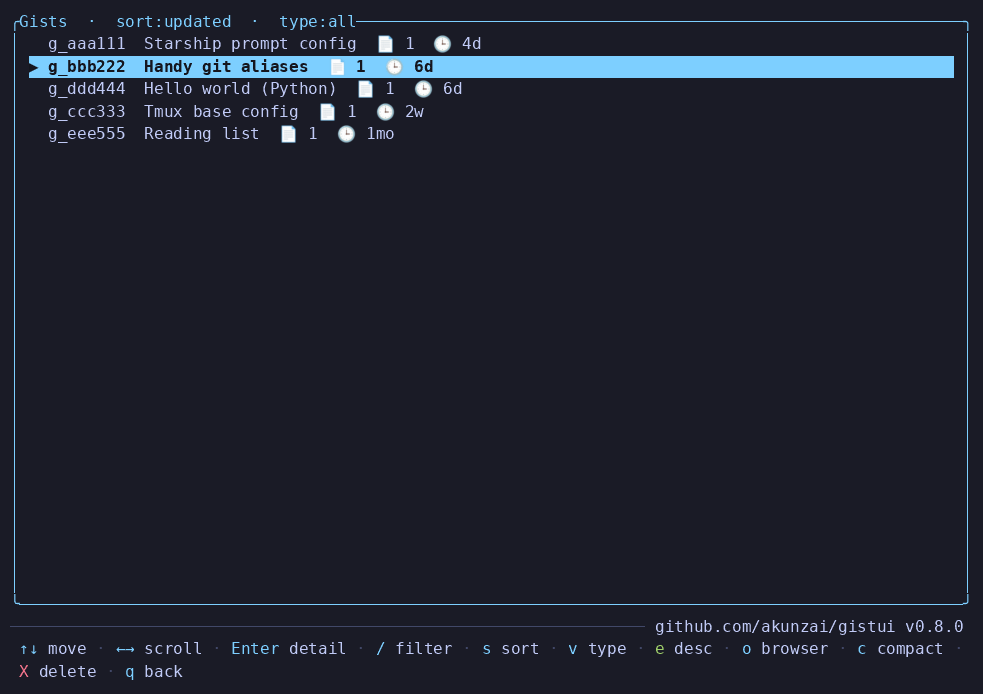
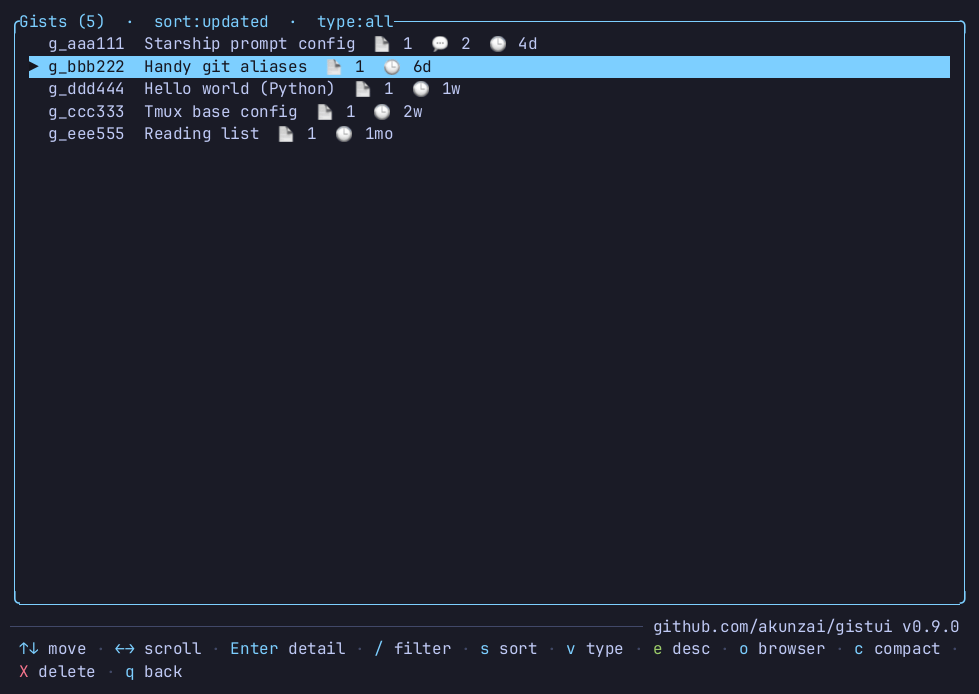
docs: cut the 0.9.0 changelog and refresh demo assets
- Cut [Unreleased] into [0.9.0] and make every version heading a
  reference-style release link, dropping the per-section "Full notes" lines.
- Re-record docs/demo.gif and docs/gist-manager.png against the 0.9.0 UI.
  Give a demo gist a comment count (seed.py + fake-gh) so the gist-manager
  screenshot showcases the new 💬 marker.

diff --git a/scripts/demo/seed.py b/scripts/demo/seed.py
@@ -24,6 +24,7 @@ GISTS = {
         "public": True,
         "updated_at": "2026-06-09T18:20:00Z",
         "created_at": "2026-03-01T00:00:00Z",
+        "comments": 2,
         "files": {
             "starship.toml": (
                 "# Starship prompt\n"

diff --git a/CHANGELOG.md b/CHANGELOG.md
@@ -1,6 +1,6 @@
 # Changelog
 
-All notable changes are summarised here. Each release links to its full,
+All notable changes are summarised here. Each version links to its full,
 auto-generated notes on the [GitHub Releases][releases] page, which remains the
 authoritative source.
 
@@ -10,13 +10,15 @@ and this project adheres to [Semantic Versioning](https://semver.org/spec/v2.0.0
 
 ## [Unreleased]
 
-- Gist manager rows show a `💬 N` comment count for gists that have comments (drawn from the
-  existing gist-list fetch — no extra API calls).
-- Item counts in the Local, Gists and Pins titles (e.g. `Gists (3/12)` when a filter is
-  active, `(N)` otherwise), matching the existing `Files (N)` / `Comments (N)` style.
+## [0.9.0] — 2026-06-14
+
 - Gist detail view is now tabbed — a `Files │ Comments` strip under the basic info shows one
   pane at a time (opens on the Files tab; `Tab` switches), instead of stacking both panes.
 - Scrollbar on the gist-detail comments pane (the Diff and Preview panes already had one).
+- Item counts in the Local, Gists and Pins titles (e.g. `Gists (3/12)` when a filter is
+  active, `(N)` otherwise), matching the existing `Files (N)` / `Comments (N)` style.
+- Gist manager rows show a `💬 N` comment count for gists that have comments (drawn from the
+  existing gist-list fetch — no extra API calls).
 - Animated spinner on the scanning, loading and working states (replaces the static `⏳`),
   so long-running `gh` operations no longer look frozen.
 - Install from crates.io: `cargo install gistui`, or `cargo binstall gistui` for the
@@ -32,8 +34,6 @@ and this project adheres to [Semantic Versioning](https://semver.org/spec/v2.0.0
 - Homebrew install: `brew install akunzai/tap/gistui`.
 - Crate metadata, README badges, and this changelog.
 
-[Full notes](https://github.com/akunzai/gistui/releases/tag/v0.8.0).
-
 ## [0.7.0] — 2026-06-12
 
 - Cursor-based file selection in the gist detail view.
@@ -43,14 +43,10 @@ and this project adheres to [Semantic Versioning](https://semver.org/spec/v2.0.0
 - PageUp/PageDown scrolling.
 - GitHub Pages landing page.
 
-[Full notes](https://github.com/akunzai/gistui/releases/tag/v0.7.0).
-
 ## [0.6.0] — 2026-06-12
 
 - Preview file content with number keys in the detail view.
 - HTTPS clone during compaction to avoid SSH passphrase prompts.
-
-[Full notes](https://github.com/akunzai/gistui/releases/tag/v0.6.0).
 
 ## [0.5.0] — 2026-06-11
 
@@ -58,16 +54,12 @@ and this project adheres to [Semantic Versioning](https://semver.org/spec/v2.0.0
 - Anchor-driven list ranking with pinned/same-name markers.
 - Windows key-repeat fix.
 
-[Full notes](https://github.com/akunzai/gistui/releases/tag/v0.5.0).
-
 ## [0.4.0] — 2026-06-11
 
 - UI refresh.
 - Gist revision compaction.
 - Quit guard.
 - Pane-oriented Enter diff preview.
-
-[Full notes](https://github.com/akunzai/gistui/releases/tag/v0.4.0).
 
 ## [0.3.0] — 2026-06-10
 
@@ -79,8 +71,6 @@ and this project adheres to [Semantic Versioning](https://semver.org/spec/v2.0.0
 - Collapsible diff context.
 - Working-directory path argument.
 
-[Full notes](https://github.com/akunzai/gistui/releases/tag/v0.3.0).
-
 ## [0.2.0] — 2026-06-09
 
 - Paginate beyond 100 gists.
@@ -91,8 +81,6 @@ and this project adheres to [Semantic Versioning](https://semver.org/spec/v2.0.0
 - A pins view.
 - Word-level inline diff highlighting.
 
-[Full notes](https://github.com/akunzai/gistui/releases/tag/v0.2.0).
-
 ## [0.1.0] — 2026-06-09
 
 - Initial MVP: browse and rank gists against the working directory.
@@ -102,6 +90,14 @@ and this project adheres to [Semantic Versioning](https://semver.org/spec/v2.0.0
 - Off-thread loading with an on-disk cache.
 - Overwrite-confirm safety gate.
 
-[Full notes](https://github.com/akunzai/gistui/releases/tag/v0.1.0).
-
+[unreleased]: https://github.com/akunzai/gistui/compare/v0.9.0...HEAD
+[0.9.0]: https://github.com/akunzai/gistui/releases/tag/v0.9.0
+[0.8.0]: https://github.com/akunzai/gistui/releases/tag/v0.8.0
+[0.7.0]: https://github.com/akunzai/gistui/releases/tag/v0.7.0
+[0.6.0]: https://github.com/akunzai/gistui/releases/tag/v0.6.0
+[0.5.0]: https://github.com/akunzai/gistui/releases/tag/v0.5.0
+[0.4.0]: https://github.com/akunzai/gistui/releases/tag/v0.4.0
+[0.3.0]: https://github.com/akunzai/gistui/releases/tag/v0.3.0
+[0.2.0]: https://github.com/akunzai/gistui/releases/tag/v0.2.0
+[0.1.0]: https://github.com/akunzai/gistui/releases/tag/v0.1.0
 [releases]: https://github.com/akunzai/gistui/releases